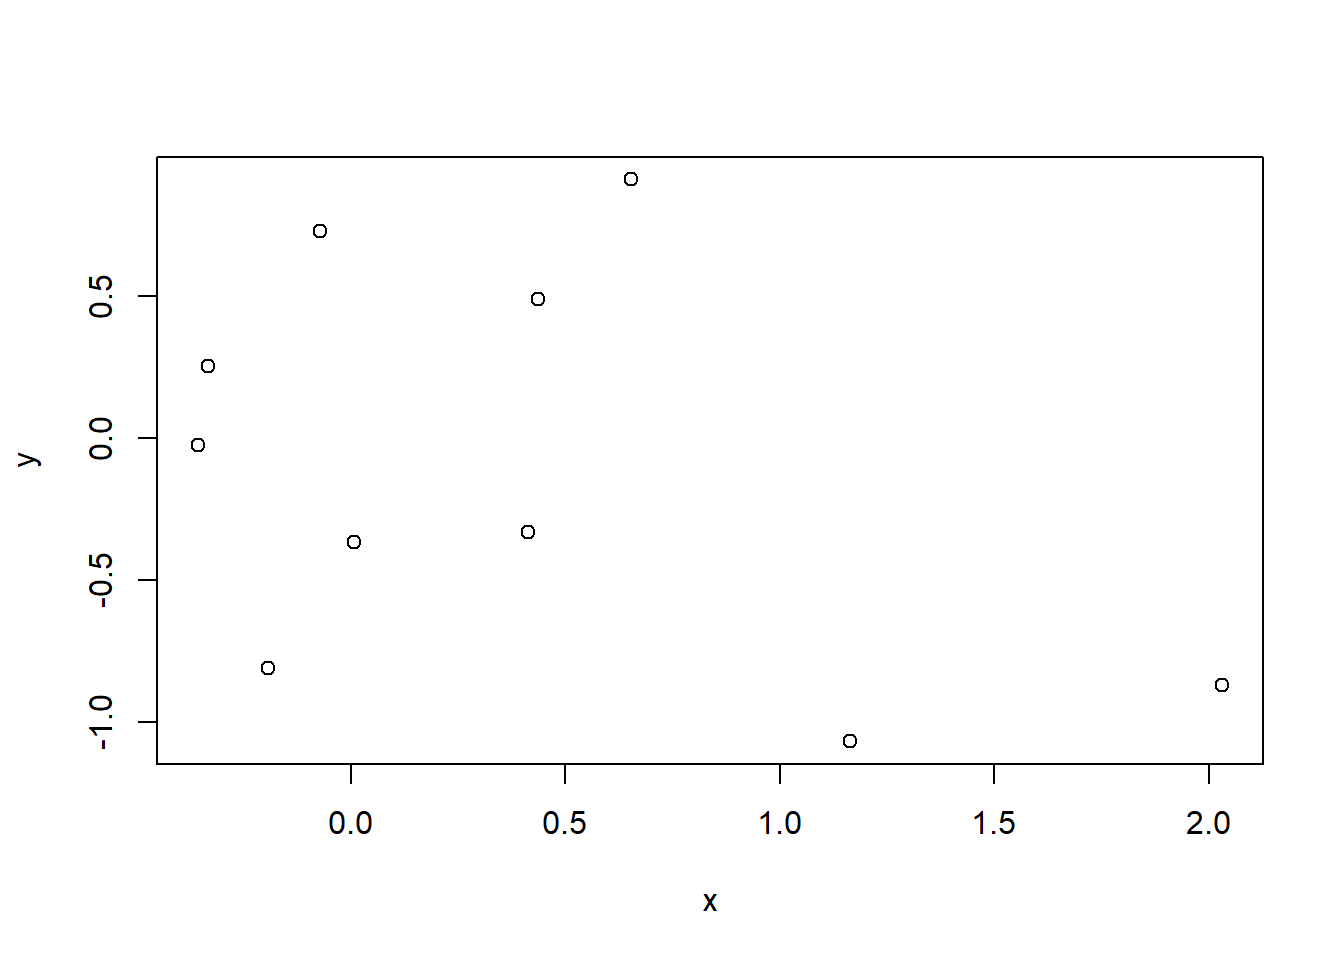
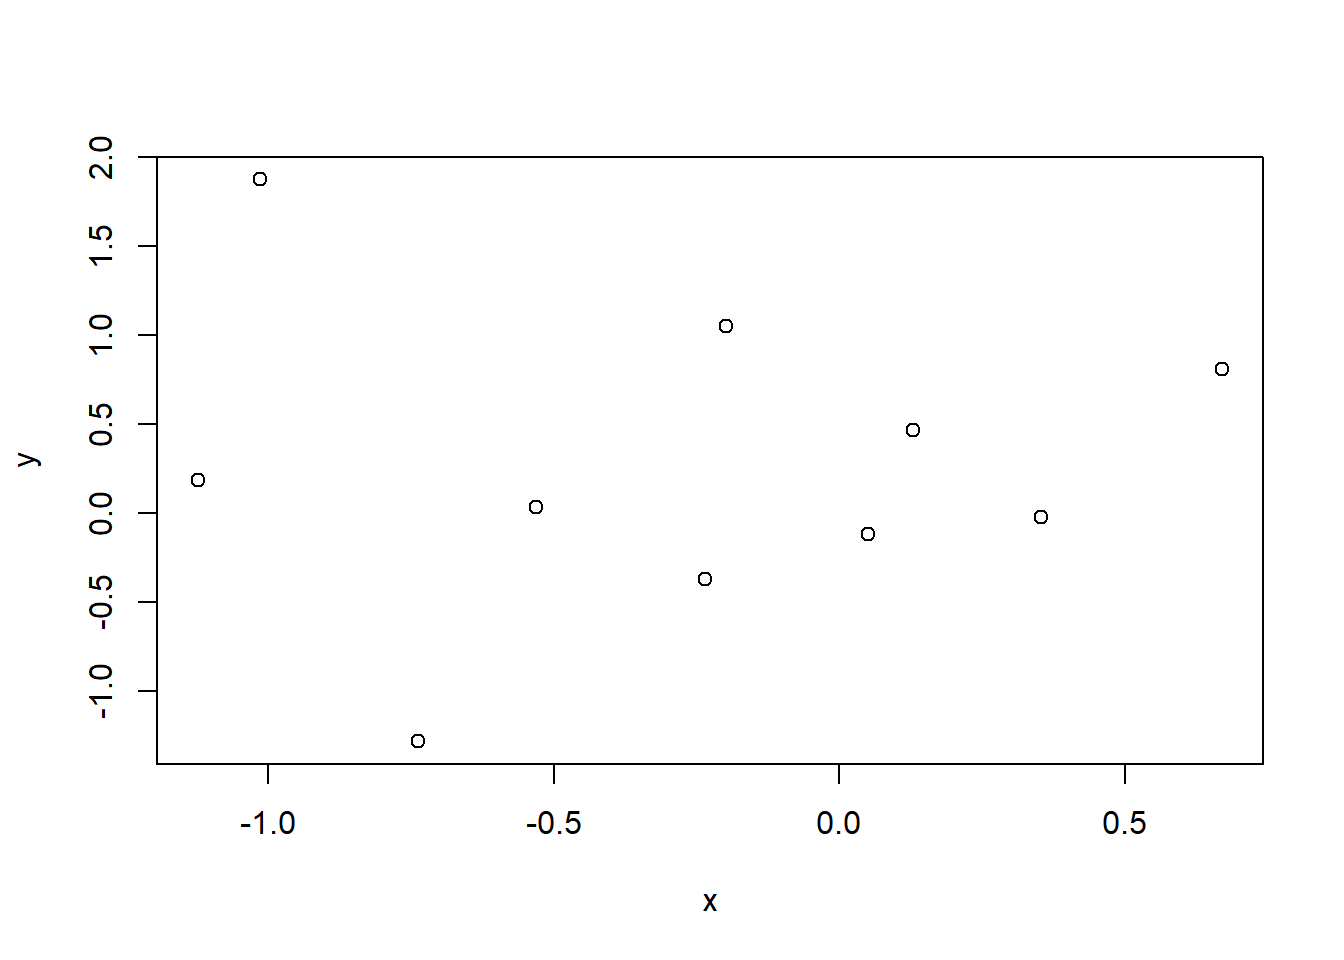
Update some files.

diff --git a/content/post/2017-05-27-ols.html b/content/post/2017-05-27-ols.html
@@ -20,24 +20,27 @@ tags: []
 ## 
 ##      intersect, setdiff, setequal, union</code></pre>
 <pre><code>##  要求されたパッケージ lattice をロード中です</code></pre>
+<pre><code>##  要求されたパッケージ ggformula をロード中です</code></pre>
 <pre><code>##  要求されたパッケージ ggplot2 をロード中です</code></pre>
-<pre><code>##  要求されたパッケージ mosaicData をロード中です</code></pre>
-<pre><code>##  要求されたパッケージ Matrix をロード中です</code></pre>
 <pre><code>## 
-## The &#39;mosaic&#39; package masks several functions from core packages in order to add additional features.  
-## The original behavior of these functions should not be affected by this.</code></pre>
+## New to ggformula?  Try the tutorials: 
+##  learnr::run_tutorial(&quot;introduction&quot;, package = &quot;ggformula&quot;)
+##  learnr::run_tutorial(&quot;refining&quot;, package = &quot;ggformula&quot;)</code></pre>
+<pre><code>##  要求されたパッケージ mosaicData をロード中です</code></pre>
+<pre><code>## 
+## The &#39;mosaic&#39; package masks several functions from core packages in order to add 
+## additional features.  The original behavior of these functions should not be affected by this.
+## 
+## Note: If you use the Matrix package, be sure to load it BEFORE loading mosaic.</code></pre>
 <pre><code>## 
 ##  次のパッケージを付け加えます: &#39;mosaic&#39;</code></pre>
-<pre><code>##  以下のオブジェクトは &#39;package:Matrix&#39; からマスクされています: 
-## 
-##      mean</code></pre>
 <pre><code>##  以下のオブジェクトは &#39;package:dplyr&#39; からマスクされています: 
 ## 
 ##      count, do, tally</code></pre>
 <pre><code>##  以下のオブジェクトは &#39;package:stats&#39; からマスクされています: 
 ## 
-##      binom.test, cor, cov, D, fivenum, IQR, median, prop.test,
-##     quantile, sd, t.test, var</code></pre>
+##      binom.test, cor, cor.test, cov, fivenum, IQR, median,
+##     prop.test, quantile, sd, t.test, var</code></pre>
 <pre><code>##  以下のオブジェクトは &#39;package:base&#39; からマスクされています: 
 ## 
 ##      max, mean, min, prod, range, sample, sum</code></pre>

diff --git a/content/post/2017-06-01-rnorm.html b/content/post/2017-06-01-rnorm.html
@@ -11,11 +11,11 @@ categories: R
 
 <p>ここで例を示す.</p>
 <pre class="r"><code>(x&lt;-rnorm(10))</code></pre>
-<pre><code>##  [1]  0.435384586 -0.331848767 -0.356255239  0.652968652 -0.193045053
-##  [6]  0.412922052  0.006755736 -0.072567731  2.030153246  1.164345115</code></pre>
+<pre><code>##  [1]  0.66975124 -0.23526074  0.35385956 -0.73745953  0.05038334
+##  [6] -0.53039682 -1.12284186  0.12886882 -0.19795159 -1.01357371</code></pre>
 <pre class="r"><code>(y&lt;-rnorm(10))</code></pre>
-<pre><code>##  [1]  0.48818284  0.25391964 -0.02457829  0.90994005 -0.81024604
-##  [6] -0.33284027 -0.36736379  0.72806332 -0.86933220 -1.06828100</code></pre>
+<pre><code>##  [1]  0.81068830 -0.36857939 -0.02076608 -1.28326335 -0.11597419
+##  [6]  0.03083376  0.18288166  0.46492849  1.05059312  1.87522064</code></pre>
 <p>作図すると以下になる.</p>
 <pre class="r"><code>plot(x,y)</code></pre>
 <p><img src="/post/2017-06-01-rnorm_files/figure-html/unnamed-chunk-3-1.png" width="672" /></p>

diff --git a/content/post/2017-05-27-test.html b/content/post/2017-05-27-test.html
@@ -11,5 +11,5 @@ tags: []
 
 <p>This is a test.</p>
 <pre class="r"><code>rnorm(10)</code></pre>
-<pre><code>##  [1] -0.5061925 -0.6452849  1.2105445  0.8064117  1.1216034  1.2351257
-##  [7] -0.6278945 -2.2574761  1.4683344 -1.5238082</code></pre>
+<pre><code>##  [1] -0.2093243 -1.5860142  1.7801639 -2.9096371 -0.6831120  1.0259903
+##  [7] -0.5202313 -0.2791504 -0.9891890 -0.7760494</code></pre>
